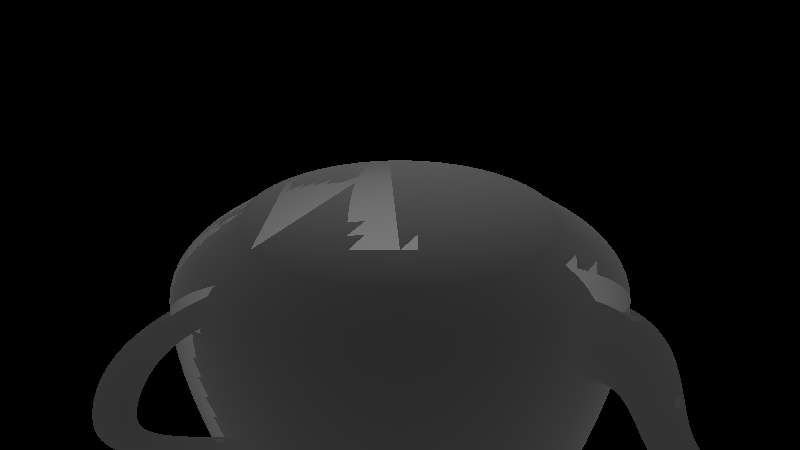
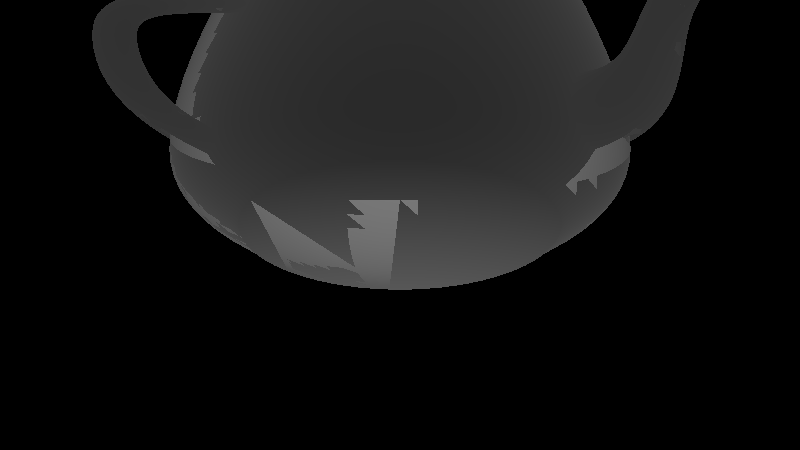
+nightly

diff --git a/src/raycaster.rs b/src/raycaster.rs
@@ -12,7 +12,10 @@ pub mod ray_caster{
 
     let mut yvec: Vec<Vec<[f32; 3]>> = Vec::with_capacity(Y);
 
-    for y in (Y-1)..=0{//flip y-axis for image::
+
+    let mut y = Y-1;
+
+    loop{
 
       let mut xvec: Vec<[f32; 3]> = Vec::with_capacity(X);
 
@@ -24,20 +27,25 @@ pub mod ray_caster{
       }
 
       yvec.push(xvec);
+      
+      if y == 0{
+        break;
+      }
+      y -= 1
     }
 
     //DEBUG
     //DEBUG
     //DEBUG
-    let mut rays_img = image::RgbImage::new(X as u32, Y as u32);
+    // let mut rays_img = image::RgbImage::new(X as u32, Y as u32);
     
-    for (x, y, pixel) in rays_img.enumerate_pixels_mut(){
-      *pixel = image::Rgb([ (yvec[y as usize][x as usize][0].atan() * 255f32) as u8,
-                            (yvec[y as usize][x as usize][1].atan() * 255f32) as u8,
-                            (yvec[y as usize][x as usize][2].atan() * 255f32) as u8]
-                          );
-    }
-    rays_img.save_with_format("rays_image.png", image::ImageFormat::Png).unwrap();
+    // for (x, y, pixel) in rays_img.enumerate_pixels_mut(){
+    //   *pixel = image::Rgb([ (yvec[y as usize][x as usize][0].atan() * 255f32) as u8,
+    //                         (yvec[y as usize][x as usize][1].atan() * 255f32) as u8,
+    //                         (yvec[y as usize][x as usize][2].atan() * 255f32) as u8]
+    //                       );
+    // }
+    // rays_img.save_with_format("storage/rays_image.png", image::ImageFormat::Png).unwrap();
     //DEBUG
     //DEBUG
     //DEBUG

diff --git a/src/renderer.rs b/src/renderer.rs
@@ -14,7 +14,7 @@ pub fn render_and_save(bvh: BvhTree, rays: Vec<Vec<[f32; 3]>>, path: &String){//
 	let mut img = image::RgbImage::new( imgx as u32, imgy as u32);
 
   let bar = indicatif::ProgressBar::new((imgx*imgy) as u64);
-  bar.set_style(ProgressStyle::with_template("{wide_bar:.green/blue} {eta}").unwrap().progress_chars("#>-"));
+  bar.set_style(ProgressStyle::with_template("{wide_bar:.green/blue} {eta}").unwrap().progress_chars("=>-"));
 
 	img.par_enumerate_pixels_mut().for_each(|(x, y, pixel)| {
 
